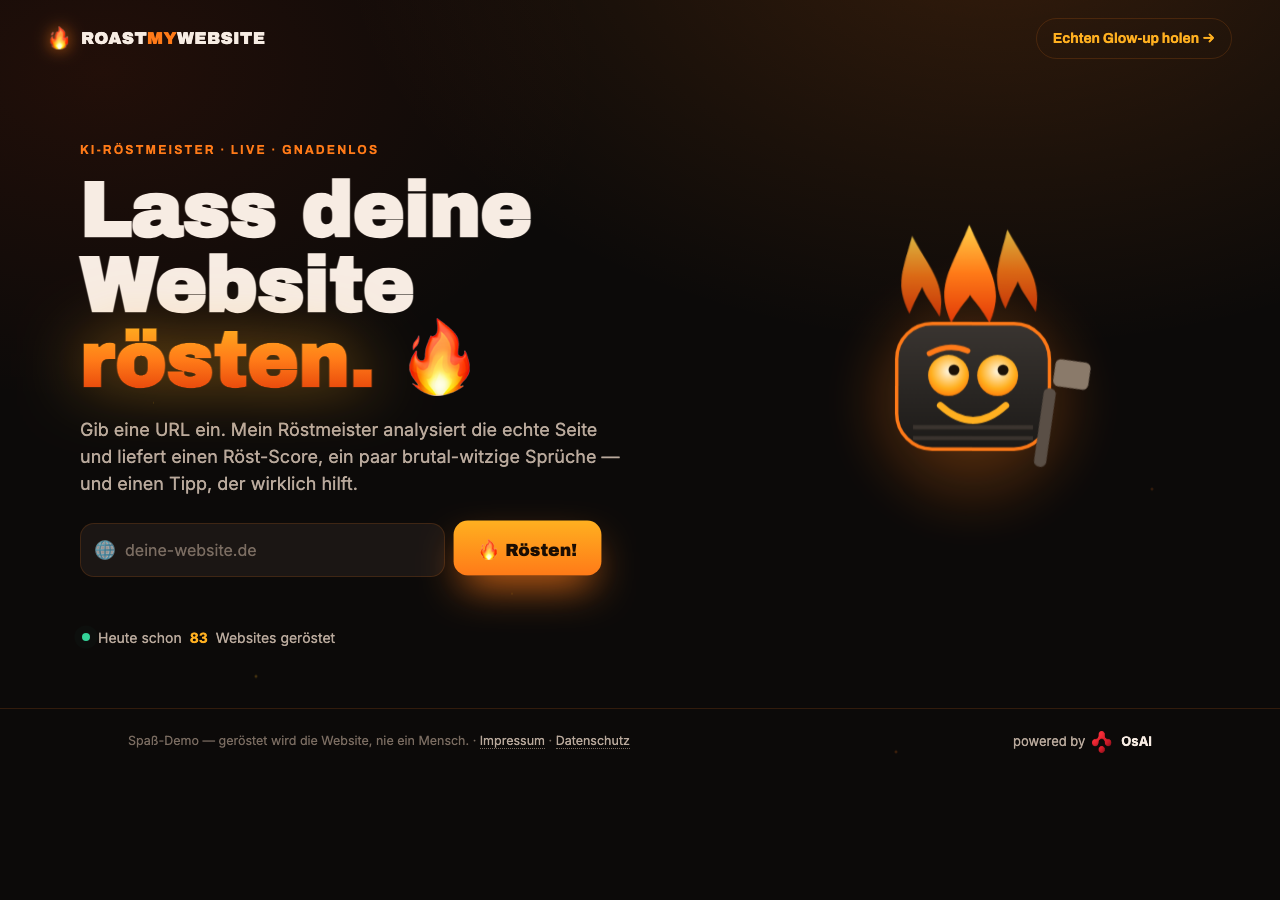
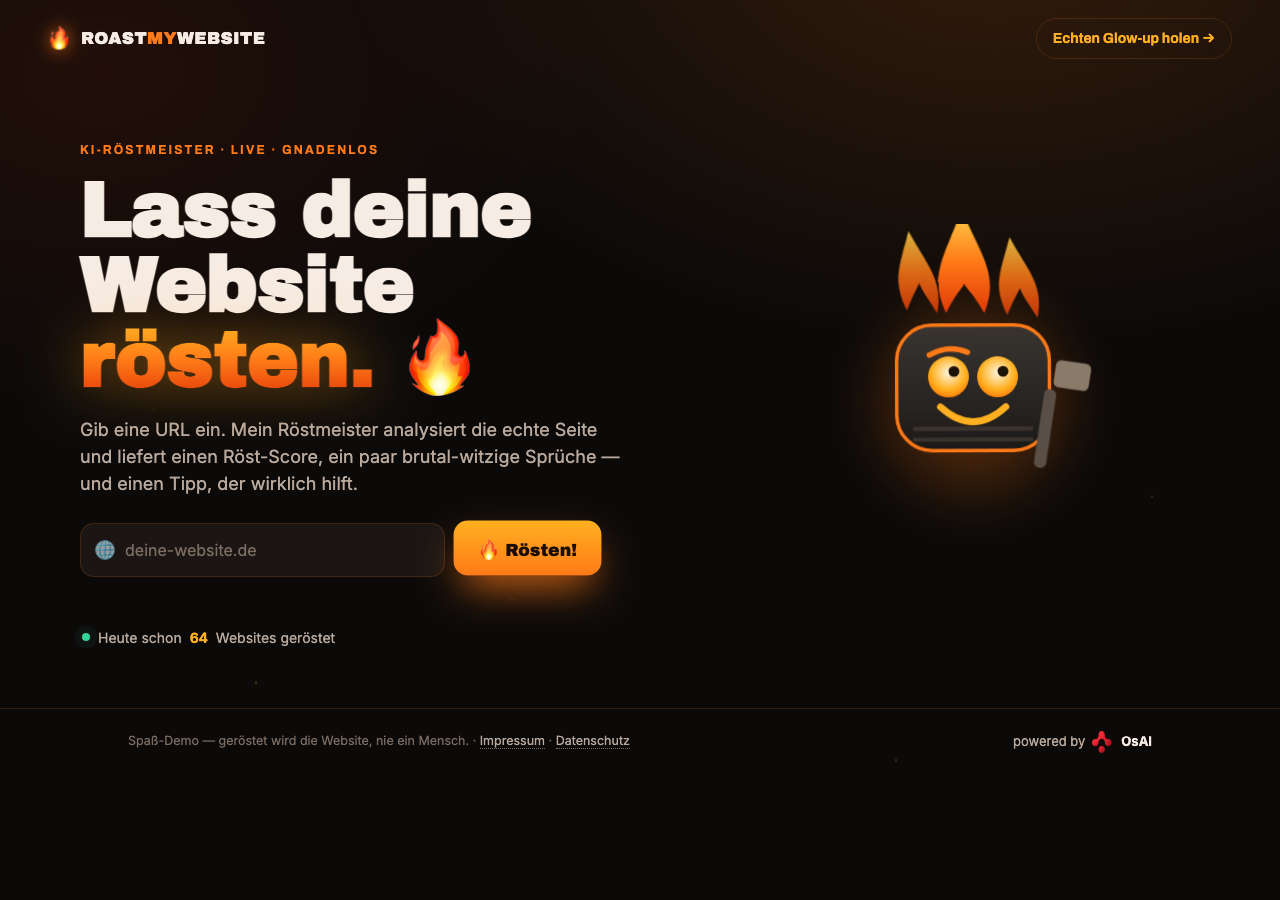
fix(excellence): Phase 5 — Top-5-Härtungen
Audit fand 10 Schwächen; Top-5 gefixt:
1. Share-Button: Lade-Feedback ('Karte wird erstellt …') + restore + Fehlertext
   statt stummem Warten/Hängen.
2/3. Gemini MAX_TOKENS: finishReason im Fehler, salvageJson() rettet abgeschnittenes
   JSON statt unnötigem Fallback-Modell.
4. SSRF-Härtung: dezimale/hex/oktale IP-Bypass-Formen (2130706433, 0x7f000001) +
   IPv6-Literale [::1] geblockt; DNS-Rebinding dokumentiert (Firecrawl-Egress).
5. A11y: aria-live auf Ergebnis + Ticker; Mascot-Grinsen via transform statt
   Cross-Browser-unsicherem d:-Path; long-content overflow-wrap-Guard.

GATE 5: MVP/Features/Polish je 2x grün (22/20/14), Live-API 2x grün (19/19 inkl.
neuer SSRF-Bypass-Checks).

Changed region(s): [[0.6875, 0.2489, 0.8125, 0.5289], [0.8125, 0.3733, 0.8438, 0.4044], [0.6875, 0.4667, 0.7188, 0.4978]]

diff --git a/api/roast.js b/api/roast.js
@@ -108,6 +108,15 @@ function classifyTarget(raw) {
   if (host.includes(":")) {
     return { ok: false, reason: "IPv6-Adressen werden nicht geröstet." };
   }
+  // Numerische Hosts in Dezimal-/Hex-/Oktal-Form ablehnen (z. B. 2130706433 = 127.0.0.1,
+  // 0x7f000001, 0177.0.0.1) — Bypass-Schreibweisen für private IPs.
+  if (/^(0x[0-9a-f]+|\d+)$/.test(host) || /^0\d/.test(host.split(".")[0])) {
+    return { ok: false, reason: "Diese Adressform wird nicht geröstet." };
+  }
+  // Hinweis: Eine öffentliche Domain könnte per DNS auf eine private IP zeigen
+  // (DNS-Rebinding). Der eigentliche Abruf läuft über Firecrawl, einen verwalteten
+  // Dienst mit eigenen Egress-/SSRF-Kontrollen — unser Server stellt selbst keine
+  // Verbindung zur Zieladresse her. Die obigen Literal-Checks blocken die direkten Fälle.
   return { ok: true, url: u.toString(), host };
 }
 
@@ -199,12 +208,35 @@ async function callGemini(apiKey, model, target, page) {
       throw err;
     }
     const data = await res.json();
-    const text = data?.candidates?.[0]?.content?.parts?.[0]?.text;
-    if (!text) throw new Error("Gemini: leere Antwort");
-    return JSON.parse(text);
+    const cand = data?.candidates?.[0];
+    const text = cand?.content?.parts?.[0]?.text;
+    if (!text) {
+      // finishReason MAX_TOKENS o.ä. → leerer/abgeschnittener Text. Explizit melden,
+      // damit der Aufrufer (mit höherem Token-Budget oder Fallback-Modell) reagieren kann.
+      throw new Error(`Gemini: leere Antwort (finishReason=${cand?.finishReason || "?"})`);
+    }
+    try {
+      return JSON.parse(text);
+    } catch (e) {
+      // Abgeschnittenes JSON retten: bis zur letzten schließenden Klammer kürzen.
+      const repaired = salvageJson(text);
+      if (repaired) return repaired;
+      throw new Error(`Gemini: JSON unparsebar (finishReason=${cand?.finishReason || "?"})`);
+    }
   } finally {
     clearTimeout(timer);
   }
+}
+
+// Best-effort-Reparatur abgeschnittener JSON-Antworten (MAX_TOKENS).
+function salvageJson(text) {
+  const start = text.indexOf("{");
+  if (start < 0) return null;
+  for (let end = text.length; end > start; end--) {
+    if (text[end - 1] !== "}") continue;
+    try { return JSON.parse(text.slice(start, end)); } catch (e) { /* weiter */ }
+  }
+  return null;
 }
 
 // Roast normalisieren + validieren (Anti-Halluzination + Schema-Härtung).

diff --git a/assets/js/app.js b/assets/js/app.js
@@ -317,24 +317,35 @@
   // ---------- Share card (html-to-image) ----------
   function onShare() {
     var card = els.roastCard;
+    var btn = els.shareBtn;
+    if (btn.dataset.busy === "1") return;
+    var origLabel = btn.textContent;
+    btn.dataset.busy = "1";
+    btn.disabled = true;
+    btn.textContent = "📸 Karte wird erstellt …";
+    var restore = function () { btn.dataset.busy = ""; btn.disabled = false; btn.textContent = origLabel; };
     var done = function (dataUrl) {
       // try Web Share with file, else download
       try {
         fetch(dataUrl).then(function (r) { return r.blob(); }).then(function (blob) {
           var file = new File([blob], "roast-my-website.png", { type: "image/png" });
           if (navigator.canShare && navigator.canShare({ files: [file] })) {
-            navigator.share({ files: [file], title: "Roast My Website 🔥", text: "Meine Website wurde geröstet 🔥" }).catch(function () {});
+            navigator.share({ files: [file], title: "Roast My Website 🔥", text: "Meine Website wurde geröstet 🔥" }).catch(function () {}).finally(restore);
           } else {
-            triggerDownload(dataUrl);
+            triggerDownload(dataUrl); restore();
           }
-        }).catch(function () { triggerDownload(dataUrl); });
-      } catch (e) { triggerDownload(dataUrl); }
+        }).catch(function () { triggerDownload(dataUrl); restore(); });
+      } catch (e) { triggerDownload(dataUrl); restore(); }
     };
-    if (!window.htmlToImage) { return; }
+    if (!window.htmlToImage) {
+      btn.textContent = "Teilen gerade nicht verfügbar";
+      setTimeout(restore, 1600);
+      return;
+    }
     card.classList.add("snapshot");
     window.htmlToImage.toPng(card, { pixelRatio: 2, backgroundColor: "#0c0a09", cacheBust: true })
       .then(function (dataUrl) { card.classList.remove("snapshot"); done(dataUrl); })
-      .catch(function () { card.classList.remove("snapshot"); });
+      .catch(function () { card.classList.remove("snapshot"); btn.textContent = "Hat nicht geklappt — nochmal?"; setTimeout(restore, 1800); });
   }
   function triggerDownload(dataUrl) {
     var a = document.createElement("a");

diff --git a/assets/css/style.css b/assets/css/style.css
@@ -163,7 +163,9 @@ main { position: relative; z-index: 2; }
 .mascot-stage[data-mood="roasting"] .mascot-svg { animation: shiver .5s ease-in-out infinite; }
 @keyframes shiver { 0%,100%{transform:translateY(0)} 50%{transform:translateY(-3px) rotate(2deg)} }
 .mascot-stage[data-mood="roasting"] .flame { animation-duration: .7s; }
-.mascot-stage[data-mood="done"] .mouth { d: path("M86 130 q 24 28 48 0"); }
+/* „Done"-Grinsen: breiter — transform statt d:-Path (Cross-Browser-sicher) */
+.mascot-stage[data-mood="done"] .mouth { transform: scaleY(1.4) translateY(2px); transform-origin: 110px 134px; }
+.mouth { transition: transform .3s ease; }
 .mascot-arm { transform-origin: 168px 150px; animation: stir 2.4s ease-in-out infinite; }
 @keyframes stir { 0%,100%{transform:rotate(0)} 50%{transform:rotate(-10deg)} }
 
@@ -254,6 +256,8 @@ main { position: relative; z-index: 2; }
   animation-delay: calc(var(--i, 0) * 130ms + 350ms);
 }
 .roast-line::before { content: "🔥"; position: absolute; left: 14px; top: 13px; font-size: 15px; }
+.roast-line, .real-tip, .card-url { overflow-wrap: anywhere; word-break: break-word; }
+.action:disabled { opacity: .7; cursor: default; }
 @keyframes roastIn { to { opacity: 1; transform: translateX(0); } }
 
 .real-tip {

diff --git a/index.html b/index.html
@@ -132,13 +132,13 @@
             </div>
           </div>
           <p class="roasting-target" id="roasting-target"></p>
-          <p class="ticker" id="ticker" data-testid="ticker">Feuer wird angefacht …</p>
+          <p class="ticker" id="ticker" data-testid="ticker" aria-live="polite">Feuer wird angefacht …</p>
         </div>
       </div>
     </div>
 
     <!-- ============ RESULT CARD ============ -->
-    <section class="result" id="result" data-testid="result" hidden>
+    <section class="result" id="result" data-testid="result" aria-live="polite" hidden>
       <div class="result-shell">
         <!-- the shareable card -->
         <article class="roast-card" id="roast-card" data-testid="roast-card">

diff --git a/tests/test_features.py b/tests/test_features.py
@@ -56,6 +56,11 @@ def run(page):
     # ---- Share-Karte: html-to-image erzeugt ein PNG ----
     has_lib = page.evaluate("() => !!window.htmlToImage")
     check("html-to-image geladen", has_lib)
+    # Share-Button gibt Lade-Feedback (kein stummes Warten)
+    page.click("[data-testid=share-btn]")
+    busy_label = page.evaluate("""() => { const b=document.getElementById('share-btn'); return {busy:b.dataset.busy, txt:b.textContent}; }""")
+    check("Share-Button zeigt Lade-Status", busy_label["busy"] == "1" or "erstellt" in busy_label["txt"] or "verfügbar" in busy_label["txt"], str(busy_label))
+    page.wait_for_timeout(2500)  # restore
     if has_lib:
         data_url = page.evaluate("""async () => {
           try { return await window.htmlToImage.toPng(document.getElementById('roast-card'),